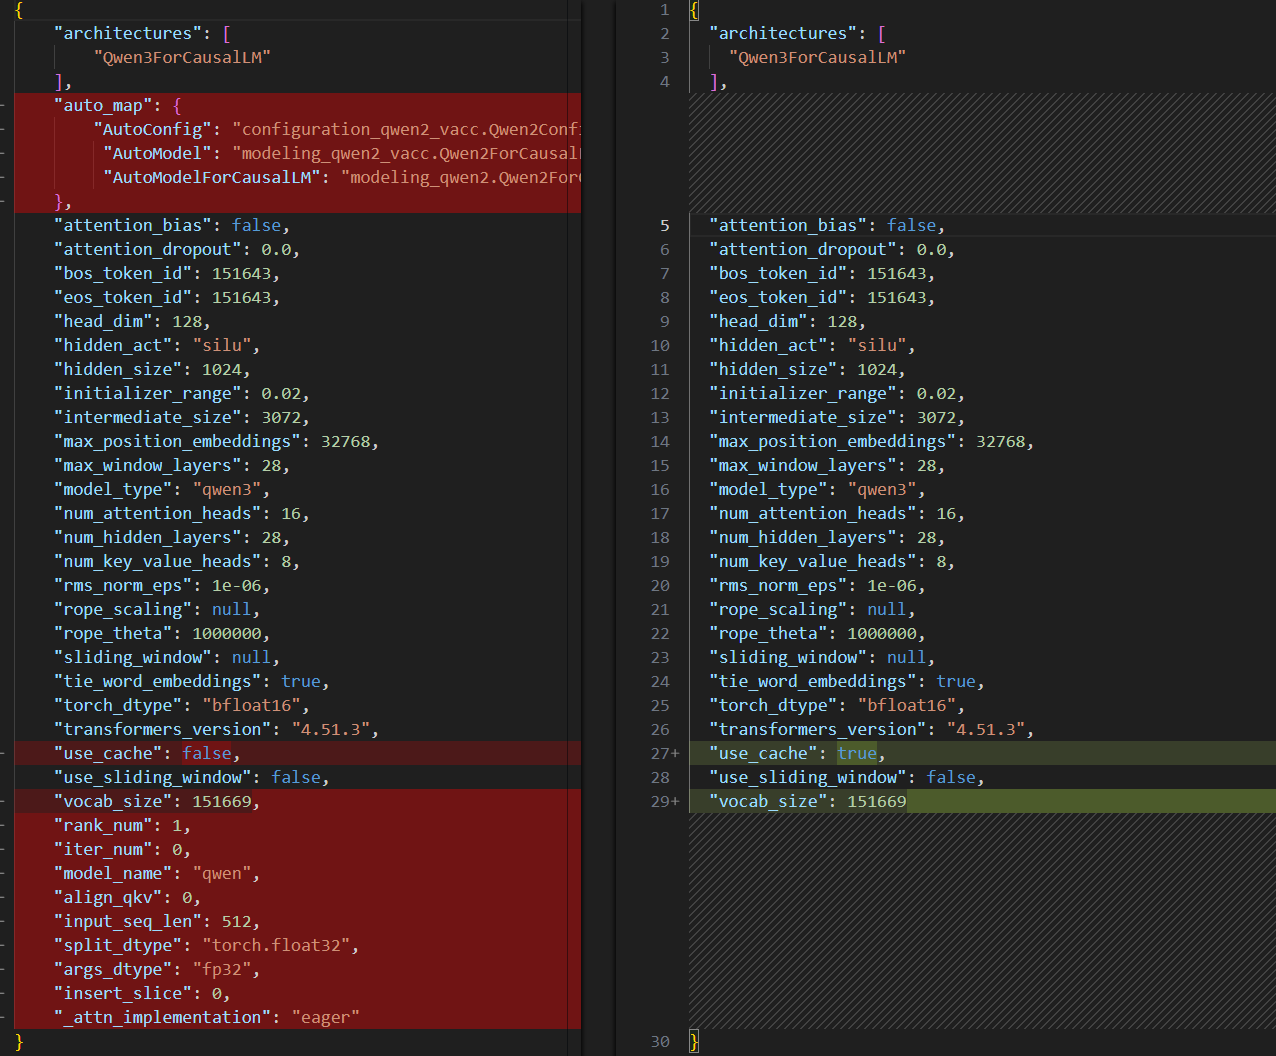
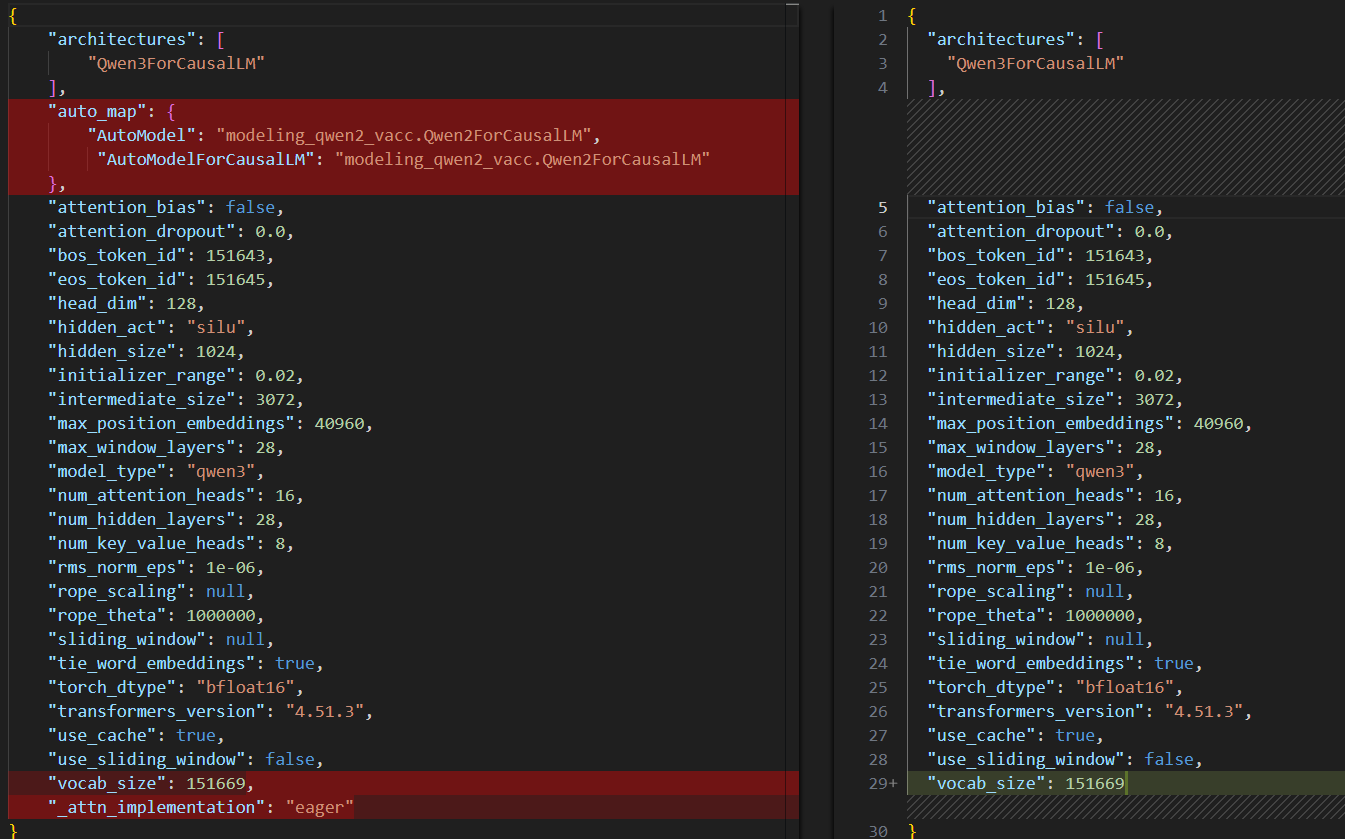
fix: modeling scripts & readme

diff --git a/nlp/text2vec/qwen3-0.6b/source_code/embedding/modeling_qwen2_vacc.py b/nlp/text2vec/qwen3-0.6b/source_code/embedding/modeling_qwen2_vacc.py
@@ -2118,11 +2118,6 @@ class Qwen2ForCausalLM(Qwen2PreTrainedModel):
             )
         return reordered_past
 
-    def quantize(self, weight_bit_width: int):
-        from .quantization_vacc import quantize
-        quantize(self, weight_bit_width)
-        return self
-
 @add_start_docstrings(
     """
     The Qwen2 Model transformer with a sequence classification head on top (linear layer).

diff --git a/nlp/text2vec/qwen3-0.6b/source_code/reranker/modeling_qwen2_vacc.py b/nlp/text2vec/qwen3-0.6b/source_code/reranker/modeling_qwen2_vacc.py
@@ -2119,10 +2119,6 @@ class Qwen2ForCausalLM(Qwen2PreTrainedModel):
             )
         return reordered_past
 
-    def quantize(self, weight_bit_width: int):
-        from .quantization_vacc import quantize
-        quantize(self, weight_bit_width)
-        return self
 
 @add_start_docstrings(
     """

diff --git a/nlp/text2vec/qwen3-0.6b/README.md b/nlp/text2vec/qwen3-0.6b/README.md
@@ -106,6 +106,7 @@ Qwen3系列采用`多阶段`训练策略：
 
 - Embedding
     - 为在瀚博软件栈部署`Qwen3`系列模型，在官方源码的基础上，需要对`modeling_qwen2.py`做一些修改，其中左图为修改的代码
+
     - [modeling_qwen2_vacc.py](./source_code/embedding/modeling_qwen2_vacc.py)
         - 修改相关依赖的导入方式
         ![](../../../images/nlp/qwen3-0.6b/Snipaste_1.png)
@@ -115,21 +116,17 @@ Qwen3系列采用`多阶段`训练策略：
         ![](../../../images/nlp/qwen3-0.6b/Snipaste_3.png)
         ![](../../../images/nlp/qwen3-0.6b/Snipaste_4.png)
         
-
     - [configuration_qwen2_vacc.py](./source_code/embedding/configuration_qwen2_vacc.py)
         - 修改对于相关依赖的导入方式
         ![](../../../images/nlp/qwen3-0.6b/Snipaste_5.png)
 
-    - [quantization_vacc.py](./source_code/embedding/quantization_vacc.py)
-        - Qwen2ForCausalLM添加quantize方法，支持per_channel int8量化
-        ![](../../../images/nlp/qwen3-0.6b/Snipaste_6.png)
-
     - [config_vacc.json](./source_code/embedding/config_vacc.json)
-        - 添加auto_map、_rank_num、iter_num、model_name、align_qkv、input_seq_len、split_dtype、args_dtype、insert_slice选项
+        - 添加auto_map选项
         - 修改use_cache为false
         - 添加_attn_implementation选项，并将其只配置为eager；
         
-        ![](../../../images/nlp/qwen3-0.6b/Snipaste_7.png)
+        ![](../../../images/nlp/qwen3-0.6b/Snipaste_6.png)
+    
     - 将以上修改后文件，放置于原始权重目录下
 
 - Reranker
@@ -141,15 +138,14 @@ Qwen3系列采用`多阶段`训练策略：
 
     - [config_vacc.json](./source_code/reranker/config_vacc.json)
         
-        - 添加auto_map、_rank_num、iter_num、model_name、align_qkv、input_seq_len、split_dtype、args_dtype、insert_slice选项
-        - 修改eos_token_id、max_position_embeddings选项
+        - 添加auto_map选项
         - 添加_attn_implementation选项，并将其只配置为eager；
-        ![](../../../images/nlp/qwen3-0.6b/Snipaste_8.png)
+        ![](../../../images/nlp/qwen3-0.6b/Snipaste_7.png)
+    
     - [configuration_qwen2_vacc.py](./source_code/embedding/configuration_qwen2_vacc.py)
         - 同Embedding模型
-    - [quantization_vacc.py](./source_code/embedding/quantization_vacc.py)
-        - 同Embedding模型
-
+    
+    - 将以上修改后文件，放置于原始权重目录下
 
 ### step.2 数据集
 1. 精度评估数据集：
@@ -166,6 +162,8 @@ Qwen3系列采用`多阶段`训练策略：
 
     > - 编译参数`backend.type: tvm_vacc`
     > - fp16精度: 编译参数`backend.dtype: fp16`
+
+    > - 配置文件中的input_ids需根据需求进行修改，例如：编译512尺寸的模型，则为input_ids: [[512],[]]；编译1024尺寸的模型，则为input_ids: [[1024],[]]
 
 2. 模型编译
     ```bash
